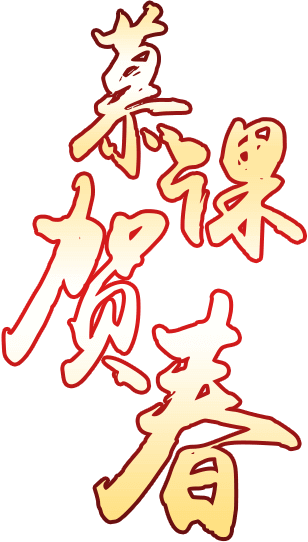
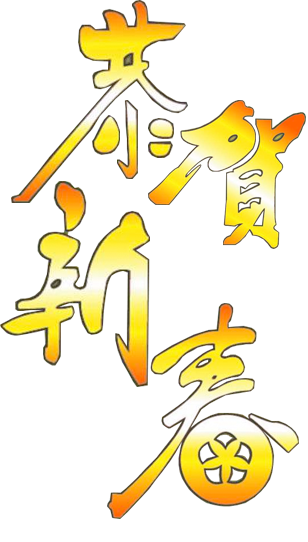
修改图片
修改图片

diff --git a/index.html b/index.html
@@ -19,19 +19,18 @@
     <div class="page" id="page1">
         <div class="bg"></div>
         <div class="p1_lantern">点击屏幕
-            <br />开启好运2016</div>
+            <br />开启好运2017</div>
         <div class="p1_imooc"></div>
-        <div class="p1_words">2016年慕课网新年特献</div>
+        <div class="p1_words">2017年新年特献</div>
     </div>
     <div class="page" id="page2">
         <div class="bg p2_bg_loading"></div>
         <div class="bg"></div>
         <div class="p2_circle"></div>
-        <div class="p2_2016"></div>
+        <div class="p2_2017"></div>
     </div>
     <div class="page" id="page3">
         <div class="bg"></div>
-        <div class="p3_logo"></div>
         <div class="p3_title"></div>
         <div class="p3_second"></div>
         <div class="p3_first"></div>

diff --git a/css/style.css b/css/style.css
@@ -527,14 +527,14 @@ body {
     }
 }
 
-#page2 > .p2_2016 {
+#page2 > .p2_2017 {
     position: absolute;
     top: 0;
     right: 0;
     left: 0;
     bottom: 0;
     margin: auto;
-    background: url("../images/p2_2016.png") no-repeat center center;
+    background: url("../images/p2_2017.png") no-repeat center center;
     background-size: 100%;
     width: 27.5vw;
     height: 6.24vh
@@ -558,18 +558,6 @@ body {
 }
 #page3 > .bg {
     background: url("../images/p3_bg.jpg") no-repeat center center;
-    background-size: 100%
-}
-
-#page3 > .p3_logo {
-    width: 34.6875vw;
-    height: 6.3275vh;
-    position: absolute;
-    top: 7.82vh;
-    right: 0;
-    left: 0;
-    margin: auto;
-    background: url("../images/p3_logo.png") no-repeat center center;
     background-size: 100%
 }
 
